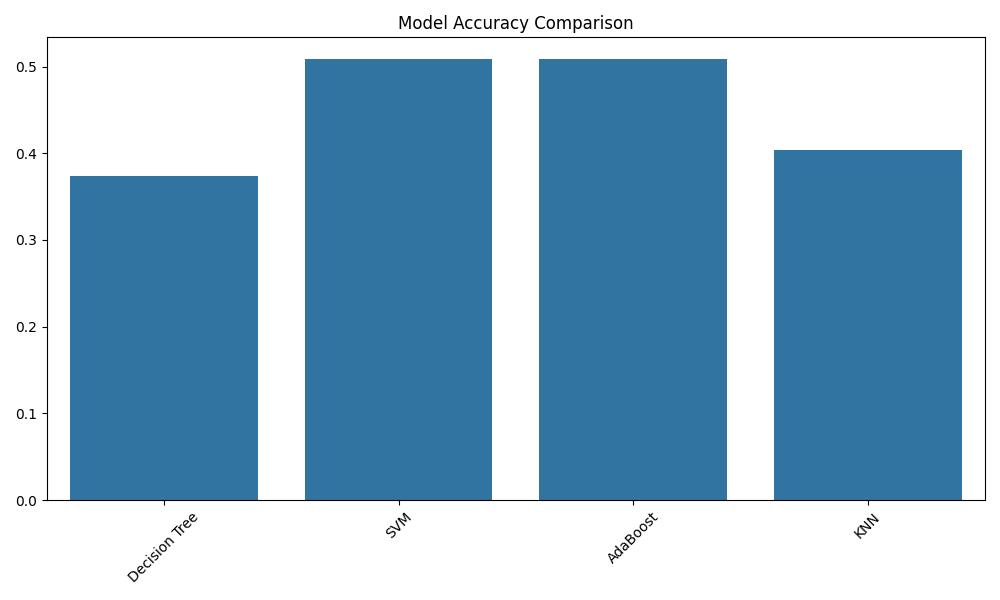
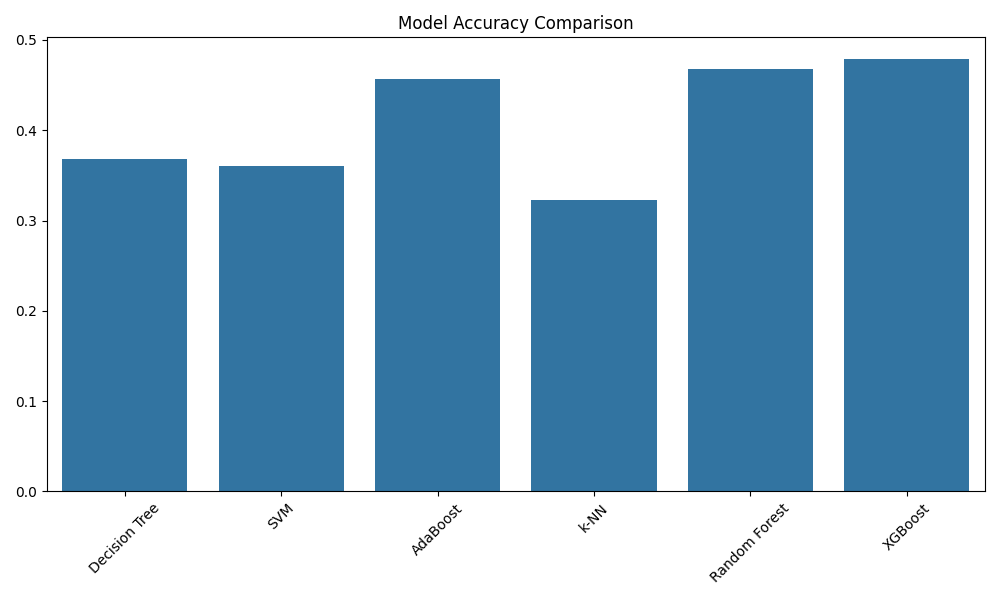
v2

diff --git a/heart_attack_predictor_v2.py b/heart_attack_predictor_v2.py
@@ -1,0 +1,259 @@
+import pandas as pd
+import numpy as np
+import time
+import matplotlib.pyplot as plt
+import seaborn as sns
+from tqdm import tqdm
+
+# Machine Learning Models and Tools
+from sklearn.model_selection import train_test_split, GridSearchCV
+from sklearn.preprocessing import StandardScaler, LabelEncoder
+from sklearn.tree import DecisionTreeClassifier
+from sklearn.svm import SVC
+from sklearn.ensemble import AdaBoostClassifier, RandomForestClassifier
+from sklearn.neighbors import KNeighborsClassifier
+from sklearn.metrics import accuracy_score, classification_report, confusion_matrix
+import xgboost as xgb
+
+# SMOTE for balancing classes
+from imblearn.over_sampling import SMOTE
+
+
+class HeartAttackRiskPredictor:
+    def __init__(self, data_path):
+        """Initialize the predictor with data path."""
+        self.data_path = data_path
+        self.df = None
+        self.X = None
+        self.y = None
+        self.X_train = None
+        self.X_test = None
+        self.y_train = None
+        self.y_test = None
+        self.models = {}
+        self.model_performances = {}
+
+    def load_and_preprocess_data(self):
+        """Load and preprocess the dataset."""
+        print("Loading and preprocessing data...")
+
+        # Load data
+        self.df = pd.read_csv(self.data_path)
+
+        # Convert categorical variables to numeric
+        le = LabelEncoder()
+        categorical_columns = ['Gender', 'Physical_Activity_Level', 'Stress_Level',
+                               'Chest_Pain_Type', 'Thalassemia', 'ECG_Results',
+                               'Heart_Attack_Risk']
+
+        for col in tqdm(categorical_columns, desc="Encoding categorical variables"):
+            self.df[col] = le.fit_transform(self.df[col])
+
+        # Separate features and target
+        self.X = self.df.drop('Heart_Attack_Risk', axis=1)
+        self.y = self.df['Heart_Attack_Risk']
+
+        # Split the data (80% training, 20% testing)
+        self.X_train, self.X_test, self.y_train, self.y_test = train_test_split(
+            self.X, self.y, test_size=0.2, random_state=35
+        )
+
+        # Scale the features
+        scaler = StandardScaler()
+        self.X_train = scaler.fit_transform(self.X_train)
+        self.X_test = scaler.transform(self.X_test)
+
+        return self
+
+    def balance_data(self):
+        """Balance training data using SMOTE."""
+        print("\nBalancing training data with SMOTE...")
+        smote = SMOTE(random_state=42)
+        self.X_train, self.y_train = smote.fit_resample(self.X_train, self.y_train)
+        print("New class distribution:", np.bincount(self.y_train))
+        return self
+
+    def perform_eda(self):
+        """Perform Exploratory Data Analysis."""
+        print("\nPerforming Exploratory Data Analysis...")
+        # Create correlation matrix
+        plt.figure(figsize=(15, 10))
+        sns.heatmap(self.df.corr(), annot=True, cmap='coolwarm', linewidths=0.5)
+        plt.title('Correlation Matrix of Features')
+        plt.tight_layout()
+        plt.savefig('images/correlation_matrix.png')
+        plt.close()
+
+        # Distribution of target variable
+        plt.figure(figsize=(8, 6))
+        sns.countplot(data=self.df, x='Heart_Attack_Risk')
+        plt.title('Distribution of Heart Attack Risk Levels')
+        plt.savefig('images/risk_distribution.png')
+        plt.close()
+
+        # Feature importance analysis using Decision Tree
+        dt = DecisionTreeClassifier(random_state=31)
+        dt.fit(self.X_train, self.y_train)
+        feature_importance = pd.DataFrame({
+            'feature': self.X.columns,
+            'importance': dt.feature_importances_
+        }).sort_values('importance', ascending=False)
+
+        plt.figure(figsize=(12, 6))
+        sns.barplot(data=feature_importance.head(10), x='importance', y='feature')
+        plt.title('Top 10 Most Important Features')
+        plt.savefig('images/feature_importance.png')
+        plt.close()
+
+    def tune_model(self, model, param_grid, model_name):
+        """Tune hyperparameters for a given model using GridSearchCV."""
+        print(f"\nTuning hyperparameters for {model_name}...")
+        grid_search = GridSearchCV(model, param_grid, cv=5, scoring='accuracy', n_jobs=-1)
+        grid_search.fit(self.X_train, self.y_train)
+        print(f"Best parameters for {model_name}: {grid_search.best_params_}")
+        return grid_search.best_estimator_
+
+    def train_models(self):
+        """Train different models and store their performances."""
+        print("\nTraining models...")
+
+        # Initialize models
+        models = {
+            'Decision Tree': DecisionTreeClassifier(random_state=315),
+            'SVM': SVC(kernel='rbf', random_state=456, probability=True),
+            'AdaBoost': AdaBoostClassifier(random_state=46),
+            'k-NN': KNeighborsClassifier(n_neighbors=5),
+            'Random Forest': RandomForestClassifier(random_state=123),
+            'XGBoost': xgb.XGBClassifier(use_label_encoder=False, eval_metric='logloss', random_state=123)
+        }
+
+        # # Hyperparameter tuning for SVM as an example
+        # svm_param_grid = {
+        #     'C': [0.1, 1, 10],
+        #     'gamma': ['scale', 'auto']
+        # }
+        # models['SVM'] = self.tune_model(models['SVM'], svm_param_grid, "SVM")
+
+        # Optionally, hyperparameter tuning can be added for other models as well
+
+        # Train and evaluate each model
+        for name, model in tqdm(models.items(), desc="Training models"):
+            start_time = time.time()
+
+            # Train the model
+            model.fit(self.X_train, self.y_train)
+
+            # Make predictions
+            y_pred = model.predict(self.X_test)
+
+            # Calculate metrics
+            accuracy = accuracy_score(self.y_test, y_pred)
+            training_time = time.time() - start_time
+
+            # Store results
+            self.models[name] = model
+            class_report = classification_report(
+                self.y_test,
+                y_pred,
+                zero_division=1,
+                output_dict=True
+            )
+
+            self.model_performances[name] = {
+                'accuracy': accuracy,
+                'training_time': training_time,
+                'classification_report': class_report,
+                'confusion_matrix': confusion_matrix(self.y_test, y_pred)
+            }
+
+            # Print immediate results for this model
+            print(f"\nResults for {name}:")
+            print(f"Accuracy: {accuracy:.4f}")
+            print(f"Training time: {training_time:.2f} seconds")
+            print("\nClassification Report:")
+
+        return self
+
+    def evaluate_models(self):
+        """Compare model performances and create visualizations."""
+        print("\nEvaluating model performances...")
+        # Prepare performance metrics for visualization
+        accuracies = [perf['accuracy'] for perf in self.model_performances.values()]
+        training_times = [perf['training_time'] for perf in self.model_performances.values()]
+
+        # Plot accuracy comparison
+        plt.figure(figsize=(10, 6))
+        sns.barplot(x=list(self.models.keys()), y=accuracies)
+        plt.title('Model Accuracy Comparison')
+        plt.xticks(rotation=45)
+        plt.tight_layout()
+        plt.savefig('images/model_accuracy_comparison.png')
+        plt.close()
+
+        # Plot training time comparison
+        plt.figure(figsize=(10, 6))
+        sns.barplot(x=list(self.models.keys()), y=training_times)
+        plt.title('Model Training Time Comparison')
+        plt.xticks(rotation=45)
+        plt.tight_layout()
+        plt.savefig('images/model_training_time_comparison.png')
+        plt.close()
+
+        # Print detailed performance metrics
+        for name, performance in self.model_performances.items():
+            print(f"\nModel: {name}")
+            print(f"Accuracy: {performance['accuracy']:.4f}")
+            print(f"Training Time: {performance['training_time']:.2f} seconds")
+            print("\nClassification Report:")
+            print(performance['classification_report'])
+
+    def dimension_reduction_analysis(self):
+        """Perform PCA analysis and visualize results."""
+        print("\nPerforming dimension reduction analysis...")
+        from sklearn.decomposition import PCA
+        pca = PCA()
+        X_pca = pca.fit_transform(self.X_train)
+        exp_var_ratio = pca.explained_variance_ratio_
+        cum_exp_var_ratio = np.cumsum(exp_var_ratio)
+
+        plt.figure(figsize=(10, 6))
+        plt.plot(range(1, len(exp_var_ratio) + 1), cum_exp_var_ratio, 'bo-')
+        plt.xlabel('Number of Components')
+        plt.ylabel('Cumulative Explained Variance Ratio')
+        plt.title('PCA Analysis - Explained Variance Ratio')
+        plt.grid(True)
+        plt.tight_layout()
+        plt.savefig('images/pca_analysis.png')
+        plt.close()
+
+        return cum_exp_var_ratio
+
+
+# Example usage
+def main():
+    print("Starting Heart Attack Risk Prediction Analysis...")
+
+    # Initialize predictor with dataset path
+    predictor = HeartAttackRiskPredictor('heart_attack_risk_dataset.csv')
+
+    # Load and preprocess data
+    predictor.load_and_preprocess_data()
+
+    # Optional: Balance the training data to address class imbalance
+    predictor.balance_data()
+
+    # Perform Exploratory Data Analysis
+    predictor.perform_eda()
+
+    # Train models (including hyperparameter tuning and additional models)
+    predictor.train_models()
+
+    # Evaluate model performances
+    predictor.evaluate_models()
+
+    # Perform dimension reduction analysis
+    predictor.dimension_reduction_analysis()
+
+
+if __name__ == "__main__":
+    main()
